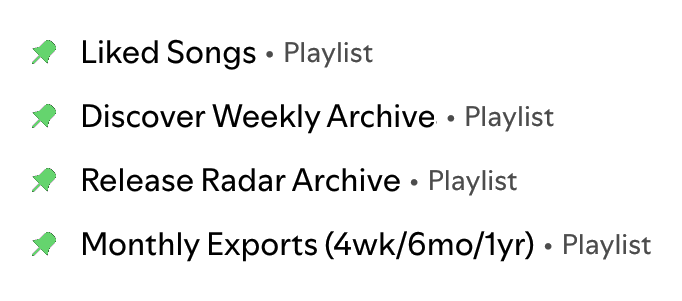
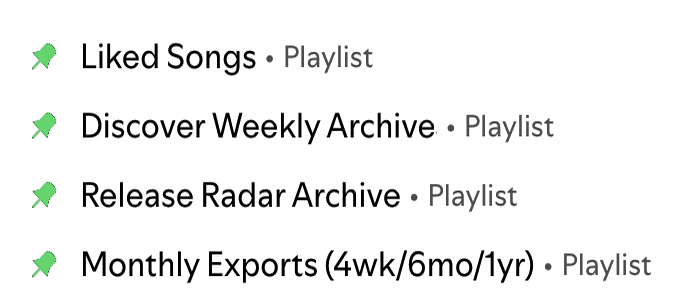
Clean light mode images, add hold-to-click on project tiles, remove unused assets
- Recreated spotify_monthly_light, spotify_archiver_light, finance_trend_light with proper anti-aliasing
- Added hold-to-click confetti interaction on first two project tiles
- Moved 15 unused/commented-out images out of repo
- Updated README

diff --git a/index.html b/index.html
@@ -50,6 +50,36 @@
                 z-index: 9999;
             }
 
+            .hold-ring {
+                position: absolute;
+                top: 50%;
+                left: 50%;
+                width: 60px;
+                height: 60px;
+                margin: -30px 0 0 -30px;
+                border-radius: 50%;
+                border: 4px solid rgba(108, 99, 255, 0.2);
+                border-top-color: #6c63ff;
+                opacity: 0;
+                pointer-events: none;
+                z-index: 10;
+                box-sizing: border-box;
+            }
+            .hold-ring.active {
+                opacity: 1;
+                animation: holdSpin 0.6s linear forwards;
+            }
+            @keyframes holdSpin {
+                to { transform: rotate(360deg); }
+            }
+            .work__img {
+                position: relative;
+            }
+            #project-spotify-analytics,
+            #project-spotify-archiver {
+                cursor: pointer;
+            }
+
             .skills__img {
                 cursor: pointer;
                 position: relative;
@@ -427,7 +457,7 @@
 
                     <div class="work__img"> <!-- Spotify Analytics -->
                         <!-- <a href=""> -->
-                            <img src="assets/img/spotify_monthly.png" alt="Spotify Analytics" data-dark="assets/img/spotify_monthly.png" data-light="assets/img/spotify_monthly_light.png">
+                            <img src="assets/img/spotify_monthly.png" alt="Spotify Analytics" data-dark="assets/img/spotify_monthly.png" data-light="assets/img/spotify_monthly_light.png" id="project-spotify-analytics">
                         <!-- </a> -->
                         <div class="work__description">
                             <center>
@@ -443,7 +473,7 @@
 
                     <div class="work__img"> <!-- Spotify Playlist Archiver -->
                         <!-- <a href=""> -->
-                            <img src="assets/img/spotify_archiver.png" alt="Spotify Playlist Archiver" style="object-fit: contain; background: #121212;" data-dark="assets/img/spotify_archiver.png" data-light="assets/img/spotify_archiver_light.png">
+                            <img src="assets/img/spotify_archiver.png" alt="Spotify Playlist Archiver" style="object-fit: contain; background: #121212;" data-dark="assets/img/spotify_archiver.png" data-light="assets/img/spotify_archiver_light.png" id="project-spotify-archiver">
                         <!-- </a> -->
                         <div class="work__description">
                             <center>
@@ -972,6 +1002,45 @@
             //     egg.classList.add('hatched');
             //     setTimeout(() => egg.classList.remove('hatched'), 4000);
             // });
+
+            // --- Hold-to-click on project tiles ---
+            ['project-spotify-analytics', 'project-spotify-archiver'].forEach(id => {
+                const img = document.getElementById(id);
+                if (!img) return;
+                const parent = img.closest('.work__img');
+                const ring = document.createElement('div');
+                ring.classList.add('hold-ring');
+                parent.appendChild(ring);
+
+                let holdTimer = null;
+
+                function startHold(e) {
+                    e.preventDefault();
+                    ring.classList.remove('active');
+                    void ring.offsetWidth; // reset animation
+                    ring.classList.add('active');
+                    holdTimer = setTimeout(() => {
+                        ring.classList.remove('active');
+                        const rect = img.getBoundingClientRect();
+                        const cx = rect.left + rect.width / 2;
+                        const cy = rect.top + rect.height / 2;
+                        spawnConfetti(cx, cy, 40);
+                        wiggleElement(img);
+                    }, 600);
+                }
+
+                function cancelHold() {
+                    clearTimeout(holdTimer);
+                    ring.classList.remove('active');
+                }
+
+                img.addEventListener('mousedown', startHold);
+                img.addEventListener('touchstart', startHold, { passive: false });
+                img.addEventListener('mouseup', cancelHold);
+                img.addEventListener('mouseleave', cancelHold);
+                img.addEventListener('touchend', cancelHold);
+                img.addEventListener('touchcancel', cancelHold);
+            });
 
             function requestResume() {
                 const form = document.querySelector('.contact__form');

diff --git a/README.md b/README.md
@@ -1,9 +1,5 @@
 # Personal Website
-### Version 3
 
-- Responsive Personal Portfolio Website using HTML, CSS, and JS.
-- Contains animations and smooth scrolling in each section.
-- Developed with the Mobile First methodology, then for desktop.
-- Compatible with all mobile devices via a streamlined user interface.
+Responsive portfolio site built with HTML, CSS, and JavaScript. Mobile-first design with dark/light theming, smooth scrolling, and interactive elements.
 
-💙 Check it out [here](https://www.jacobhl.com)!
+**[jacobhl.com](https://www.jacobhl.com)**
